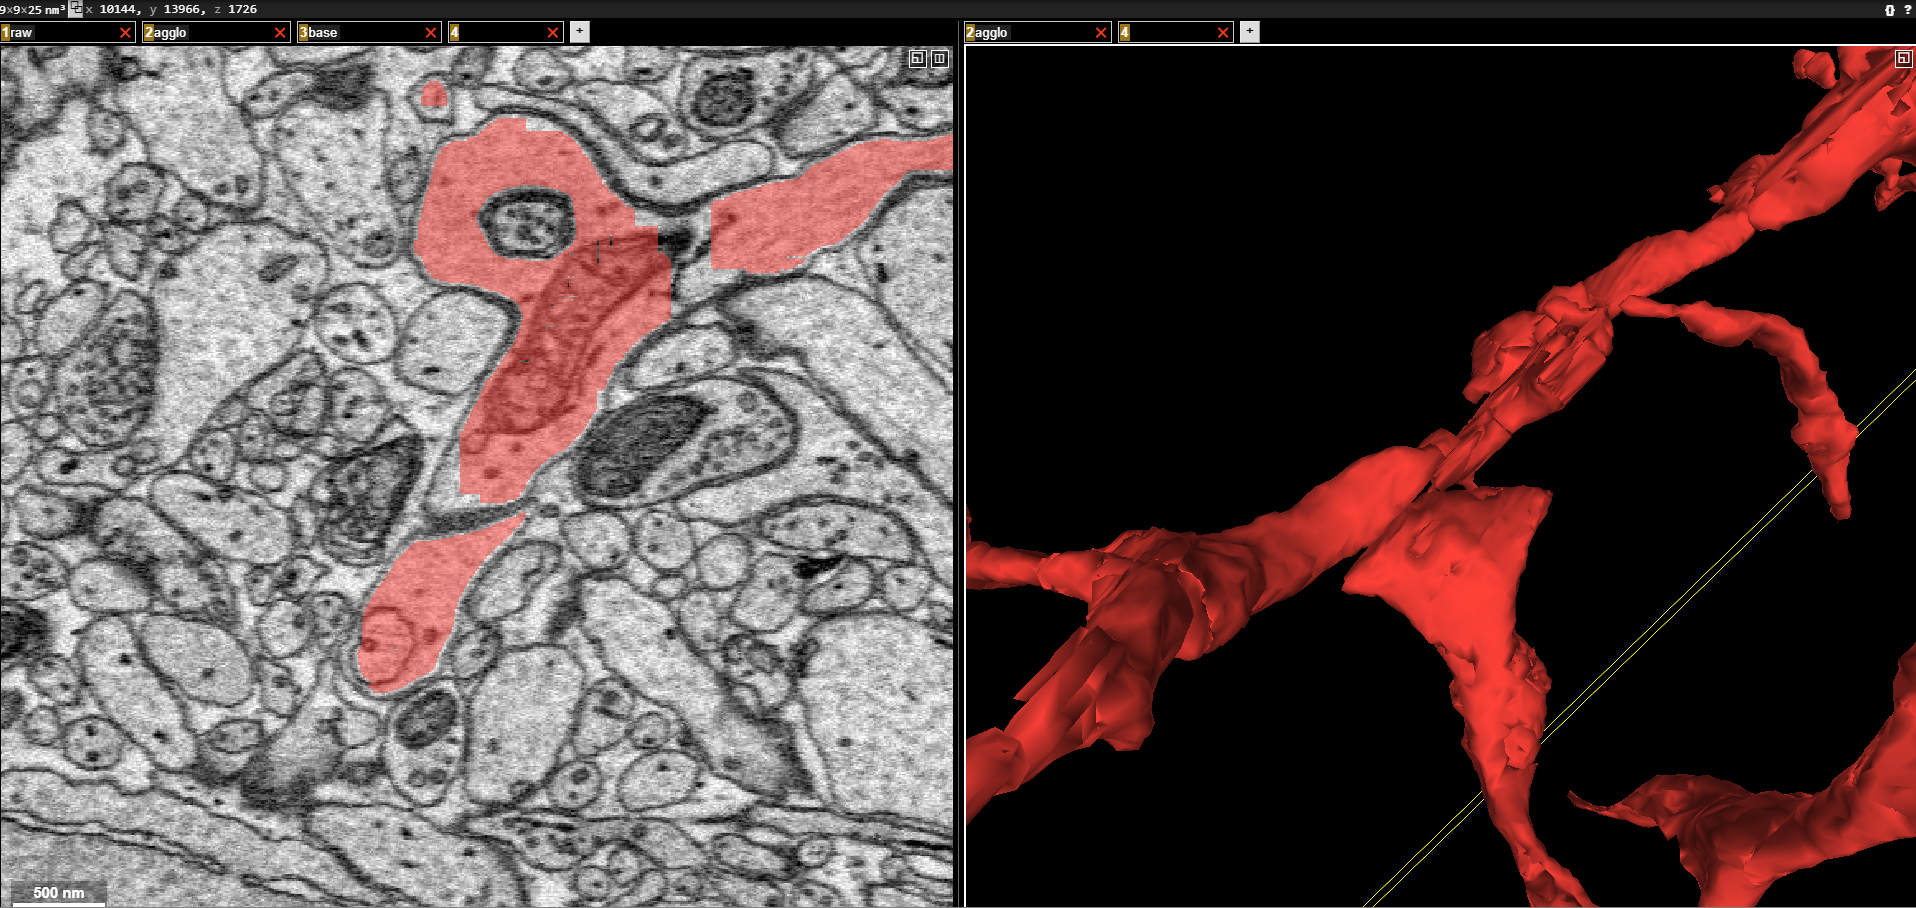
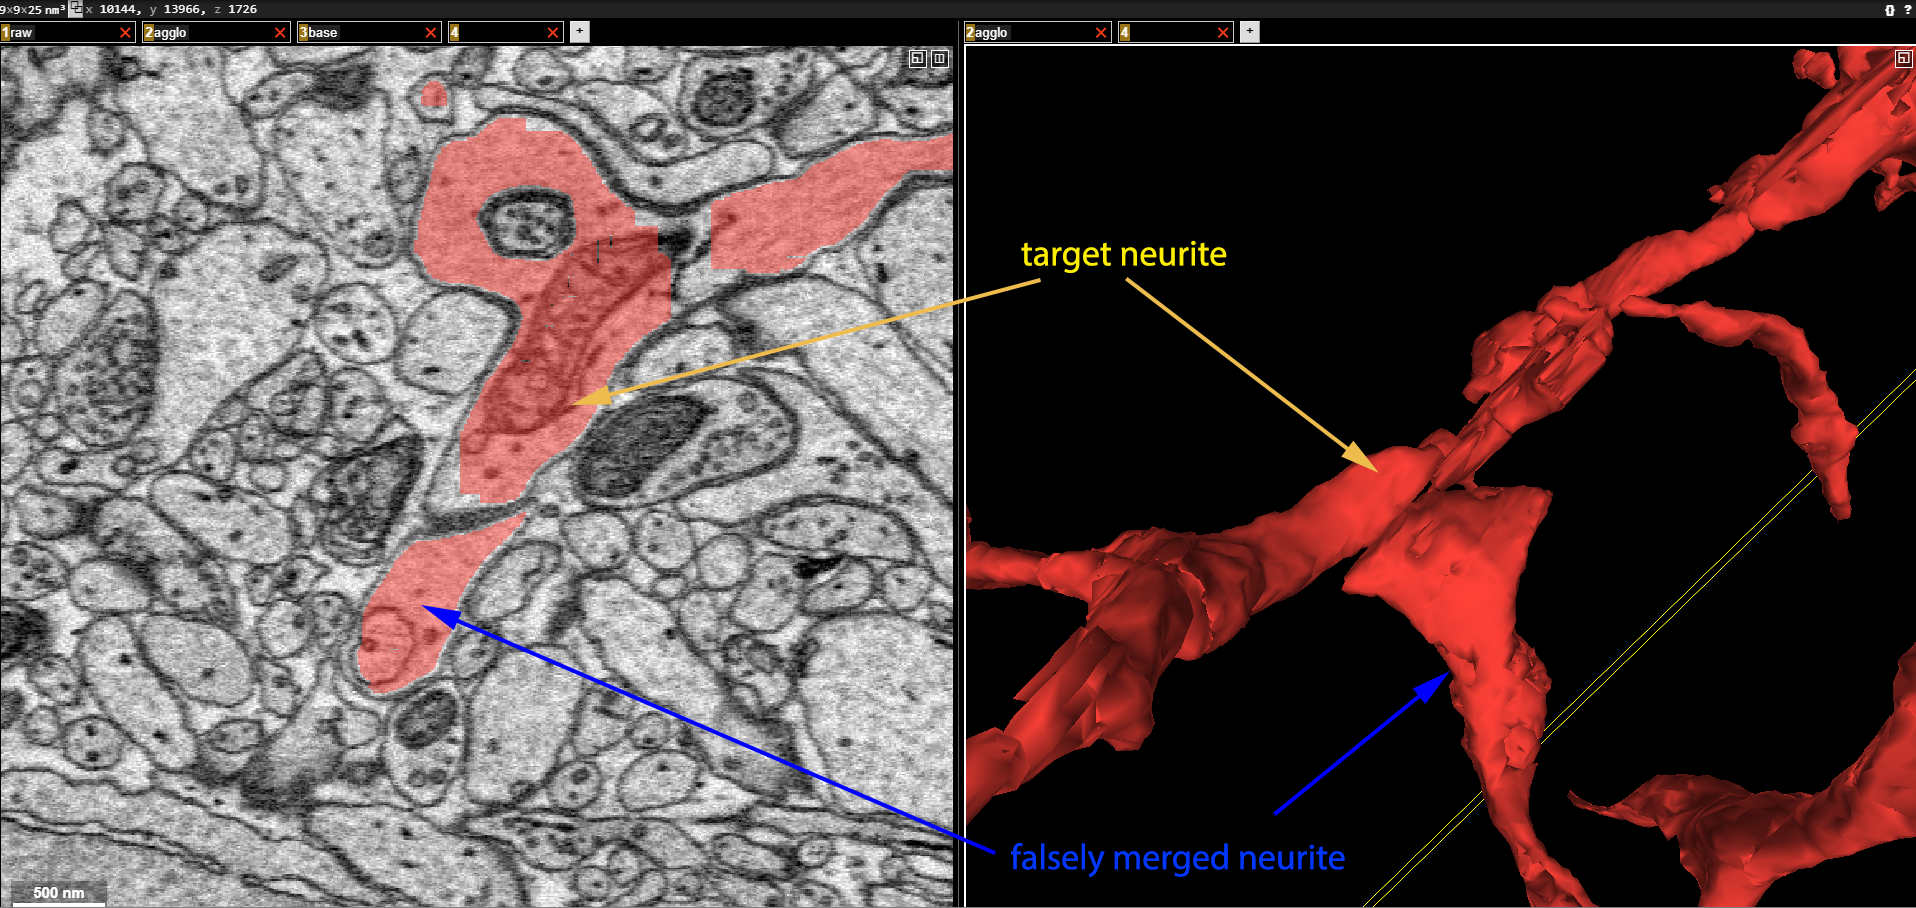
update manual and manual pictures

diff --git a/instructions.md b/instructions.md
@@ -4,29 +4,50 @@ The goal is to reconstruct whole cells in a segmentation by correcting mistakes 
 Reconstruction starts with one segment, usually containing the soma. From there follow along one neurite and add falsely split segments and remove falsely merged segments.
 
 ## 1. merging false splits
+
 example: <br/>
-![false merger](/manual_pictures/FalseSplit.png)
+![false merger](/manual_pictures/False_split.png)
+
 1. move the cursor above the falsely split segment and press 'q', try to target a location close to the target branch!
 2. move the cursor above the target branch close to the falsely split segment and press 'd' <br />
-![false merger](/manual_pictures/FalseSplit_corrected.png)
+
+![false merger](/manual_pictures/False_split_corrected.png)
 
 ## 2. splitting false agglomeration mergers
+
 example: <br/>
 ![false merger](/manual_pictures/FalseMerger.png)
+
 1. Move the cursor to one of the segments that is likely to be involved in the false merger and press 'c'. All segments connected to this segment are displayed:
+
 ![false merger](/manual_pictures/FalseMerger_connectedPartners.png)
+
 2. Find the wrongly merged pair:
     * If the segment is not merged to one in the wrong branch, hover over the next segment in the base volume and press 'c' again.
     * If a merged segment is found, move the cursor to this segment and split edges by pressing 'ctrl + x'. The viewer will refresh. <br />
+
 ![false merger](/manual_pictures/FalseMerger_split.png)
+
 3.  If the merged branches were successfully, hover over the segment/branch that does not belong to the target neuron and confirm the merge split by pressing 'k'. <br />
+
 ![false merger](/manual_pictures/FalseMerger_corrected.png)
 
 ## 3. removing groups of falsely merged segments
-This serves to remove larger groups of segments that should be split from the target branch. It does not preserve the connections of the segments to any other branch! This can be helpful to remove larger groups of segments covering membranes or ECS that are merged to the target neuron.
+
+example: <br/>
+![false merger](/manual_pictures/FalseMergedGroup.png)
+
+This serves to remove larger groups of segments that should be split from the target branch. It does not preserve the connections of the segments to any other branch! This can be helpful to remove larger groups of segments covering membranes or ECS that are merged to the target neuron.<br />
 IMPORTANT: before using this, first make sure to empty the base volume viewport ('f')
-1. Select any segment in the base volume that should be removed. Press 'ctrl+bracketright' to split off the merged segments. The viewer updates and shows the segments in the neuron graph
+
+1. Select any segment in the base volume that should be removed. Press 'ctrl+bracketright' to split off the merged segments. The viewer updates and shows the segments in the neuron graph. <br />
+
+![false merger](/manual_pictures/FalseMergedGroup_grouptoremove.png)
+![false merger](/manual_pictures/FalseMergedGroup_separated.png)
+
 2. segments that do not belong to the neuron that is reconstructed can be removed by moving the cursor to the segment and pressing 'shift+f'
+
+![false merger](/manual_pictures/FalseMergedGroup_corrected.png)
 
 ## 4. branch points
 * to set a branch point move the viewport location to the merge site (e.g. right click) and press 'y'
